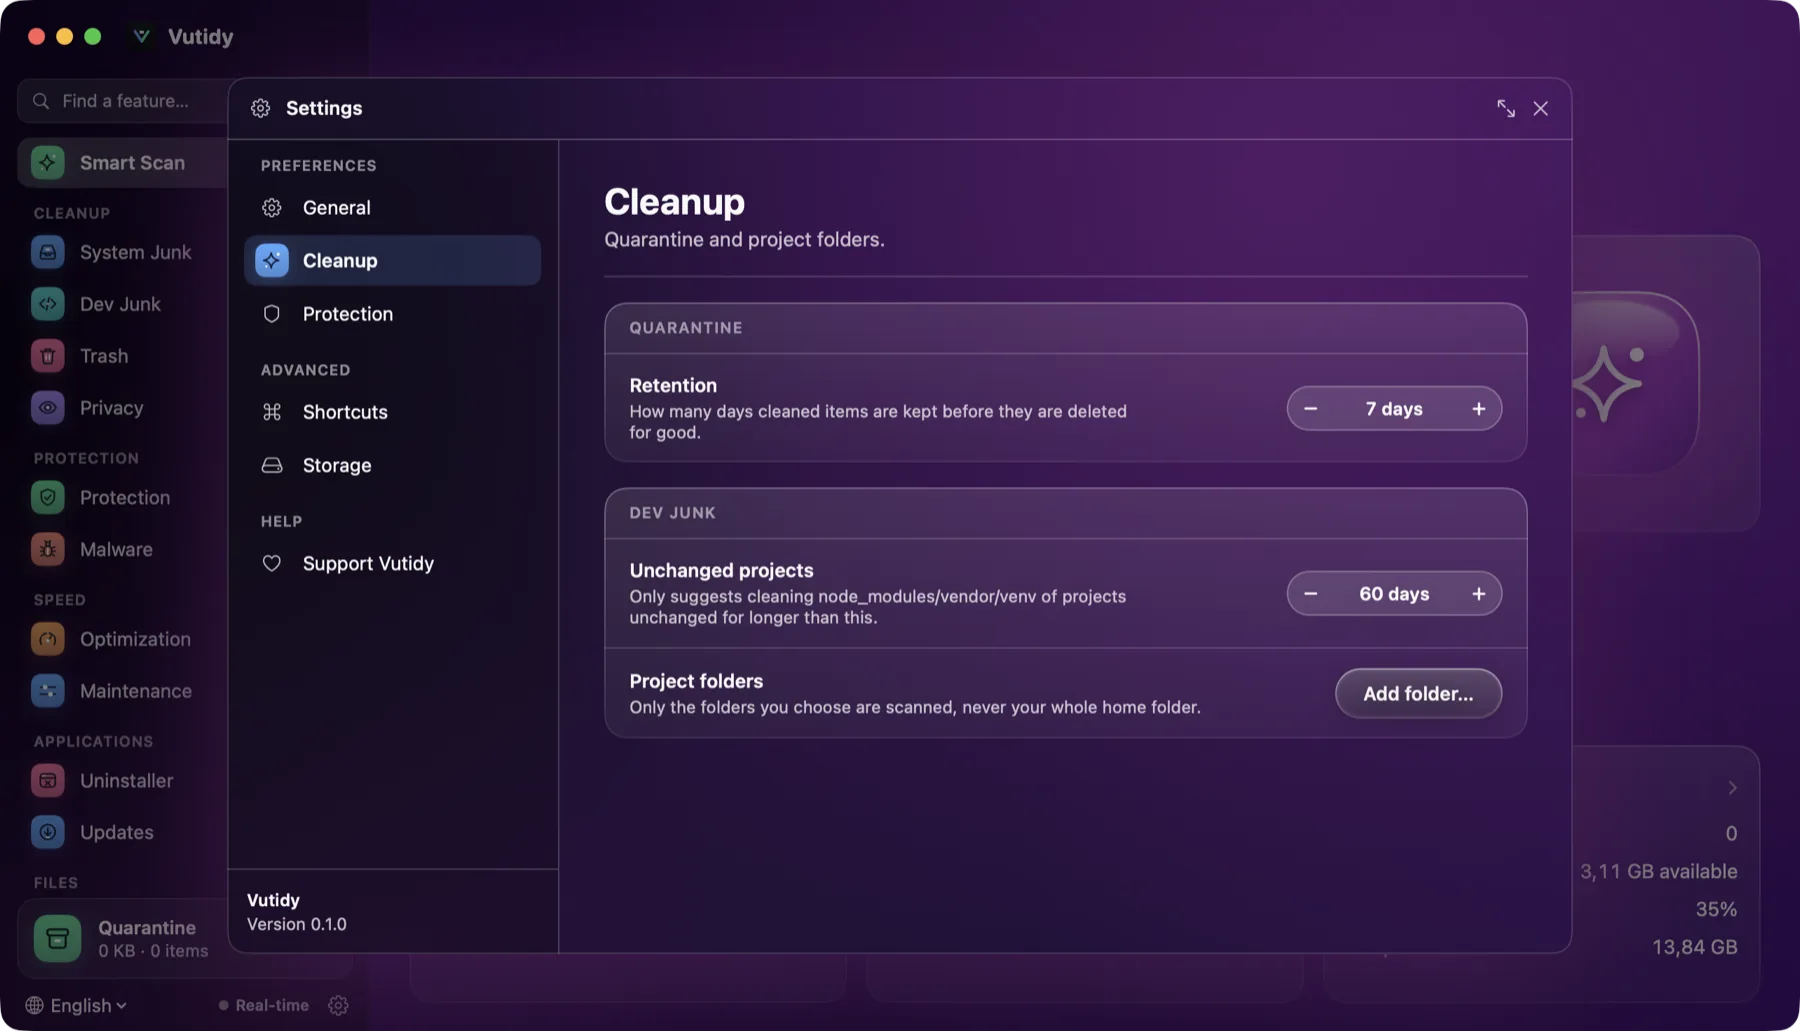
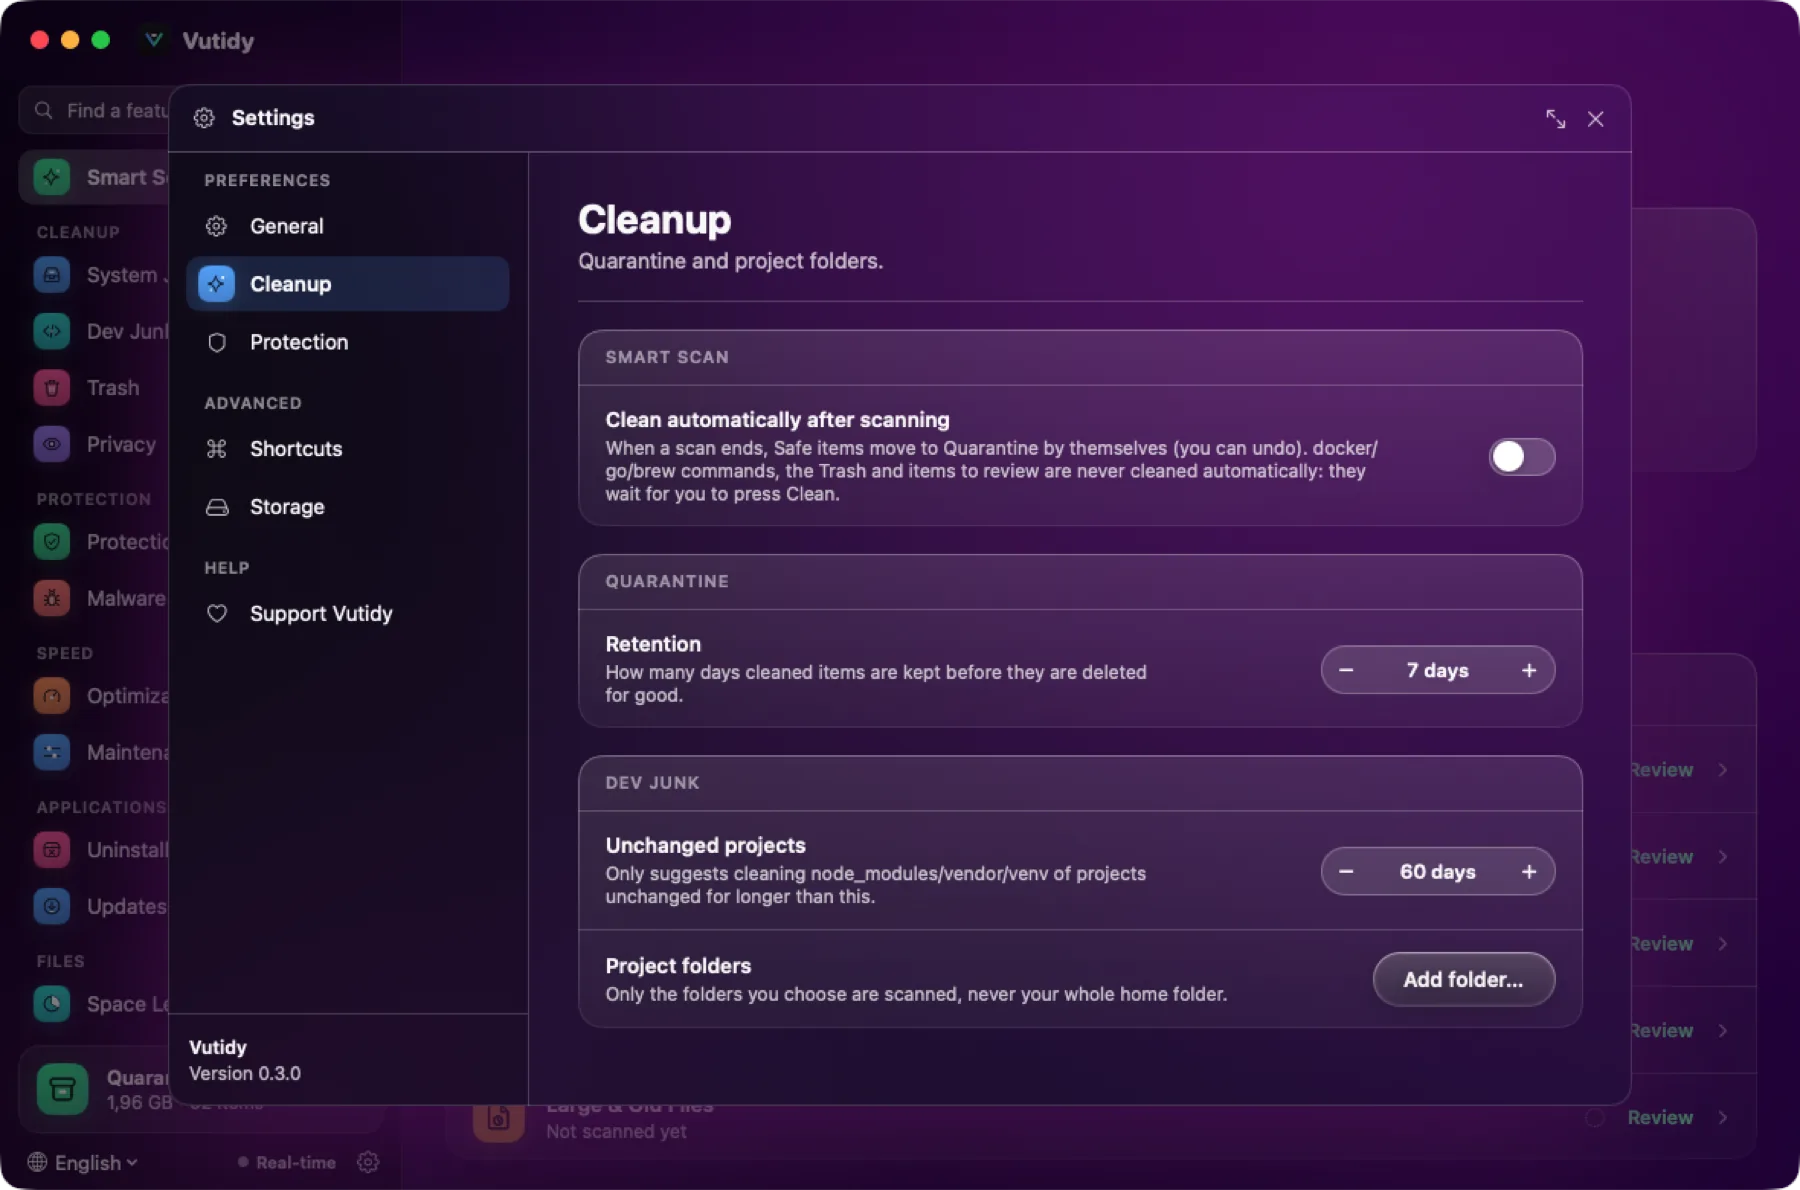
Smart Scan: clean automatically after scanning (off by default)
- Hero: "Scan and clean now" for one run, and a Settings > Cleanup switch for always.
- Only Safe items that can be undone are taken (files to the Quarantine). Items cleaned
  with a tool command (docker/go/brew), the Trash contents and anything to review are
  never cleaned automatically and stay in the list.
- One notification with Undo and the amount still waiting.
- ScanItem.isAutoCleanable (CoreKit) with unit tests; the VUTIDY_SCAN doc-capture hook
  never auto-cleans.
- Docs, screenshots and en/ja/zh strings.

diff --git a/Sources/Vutidy/AppState.swift b/Sources/Vutidy/AppState.swift
@@ -196,6 +196,10 @@ final class AppState: ObservableObject {
     @Published var projectRoots: [String] = UserDefaults.standard.stringArray(forKey: "projectRoots") ?? [] {
         didSet { UserDefaults.standard.set(projectRoots, forKey: "projectRoots") }
     }
+    /// Dọn tự động ngay sau Smart Scan: chỉ mục An toàn mà hoàn tác được (vào Quarantine). Mặc định tắt.
+    @Published var autoCleanAfterScan: Bool = UserDefaults.standard.bool(forKey: "autoCleanAfterScan") {
+        didSet { UserDefaults.standard.set(autoCleanAfterScan, forKey: "autoCleanAfterScan") }
+    }
     @Published var retentionDays: Int = UserDefaults.standard.object(forKey: "retentionDays") as? Int ?? 7 {
         didSet {
             UserDefaults.standard.set(retentionDays, forKey: "retentionDays")
@@ -251,7 +255,7 @@ final class AppState: ObservableObject {
         // Chụp tài liệu: VUTIDY_SCAN=smart|<id,id…> tự chạy quét; VUTIDY_OPEN=popover mở popover thanh menu thành cửa sổ rời.
         if let ids = ProcessInfo.processInfo.environment["VUTIDY_SCAN"] {
             for id in ids.split(separator: ",").map(String.init) {
-                Task { @MainActor in if id == "smart" { await self.runSmartScan() } else { await self.scan(id) } }
+                Task { @MainActor in if id == "smart" { await self.runSmartScan(autoClean: false) } else { await self.scan(id) } }
             }
         }
         if let sp = ProcessInfo.processInfo.environment["VUTIDY_SETTINGS"], let p = SettingsPage(rawValue: sp) { settingsPage = p; settingsOpen = true }
@@ -372,7 +376,7 @@ final class AppState: ObservableObject {
         (results[id] ?? []).filter(\.selected).reduce(0) { $0 + $1.allocatedSize }
     }
 
-    func clean(_ id: String, mode: CleanMode) async {
+    func clean(_ id: String, mode: CleanMode, quiet: Bool = false) async {
         guard !cleaning.contains(id) else { return }
         let items = results[id] ?? []
         let selected = items.filter { $0.selected }
@@ -407,7 +411,7 @@ final class AppState: ObservableObject {
         case .permanent: message = trf("Đã xóa %@", "\(ByteFormat.string(report.reclaimedBytes))")
         }
         if !report.failures.isEmpty { message += trf(" · %@ lỗi", "\(report.failures.count)") }
-        notify(message, report.failures.isEmpty ? .success : .warning, undo: undo)
+        if !quiet { notify(message, report.failures.isEmpty ? .success : .warning, undo: undo) }
         pollSystem()
     }
 
@@ -427,7 +431,8 @@ final class AppState: ObservableObject {
 
     // MARK: - Smart Scan
 
-    func runSmartScan() async {
+    /// `autoClean`: nil = theo cài đặt "Dọn tự động sau Smart Scan"; true/false = ép bật/tắt cho lần quét này.
+    func runSmartScan(autoClean: Bool? = nil) async {
         guard !smartScanning else { return }
         smartScanning = true
         let rules = RuleLoader.loadAll()
@@ -449,6 +454,7 @@ final class AppState: ObservableObject {
         for id in results.keys { results[id]?.sort { $0.allocatedSize > $1.allocatedSize } }
         smartScanning = false; status["smart"] = nil
         pollSystem()
+        if autoClean ?? autoCleanAfterScan { await autoCleanSafe() }
     }
 
     /// Dọn tất cả mục `safe` đã quét bởi Smart Scan.

diff --git a/Sources/Vutidy/SmartScanView.swift b/Sources/Vutidy/SmartScanView.swift
@@ -120,6 +120,10 @@ struct SmartScanView: View {
                 } else if state.smart == nil {
                     Text(tr("Smart Scan gộp Rác hệ thống, Dev Junk, Thùng rác, persistence và gợi ý tối ưu trong một lần quét."))
                         .font(Theme.Font.body).foregroundStyle(Theme.Text.secondary).fixedSize(horizontal: false, vertical: true)
+                    if state.autoCleanAfterScan {
+                        Label(tr("Dọn tự động đang bật: quét xong, mục An toàn hoàn tác được sẽ vào Quarantine."), systemImage: "bolt.fill")
+                            .font(Theme.Font.caption).foregroundStyle(Theme.Review.text).fixedSize(horizontal: false, vertical: true)
+                    }
                 } else if cleanable > 0 {
                     Label(trf("Hoàn tác được trong %@ ngày", "\(state.retentionDays)"), systemImage: "arrow.uturn.backward")
                         .font(Theme.Font.caption).foregroundStyle(Theme.Text.secondary)
@@ -130,7 +134,16 @@ struct SmartScanView: View {
                             Button(trf("Dọn %@", ByteFormat.string(cleanable))) { confirm = true }.buttonStyle(PrimaryButtonStyle())
                             Button(tr("Xem trước (dry-run)")) { Task { await state.cleanSmart(mode: .dryRun) } }.buttonStyle(SecondaryButtonStyle())
                         }
-                        if state.smart == nil { Button(tr("Bắt đầu quét")) { Task { await state.runSmartScan() } }.buttonStyle(PrimaryButtonStyle()) }
+                        if state.smart == nil {
+                            // Bật "Dọn tự động": một nút quét + dọn. Tắt: quét như cũ, và thêm lối tắt "Quét và dọn luôn" cho lần này.
+                            if state.autoCleanAfterScan {
+                                Button(tr("Quét và dọn")) { Task { await state.runSmartScan() } }.buttonStyle(PrimaryButtonStyle())
+                            } else {
+                                Button(tr("Bắt đầu quét")) { Task { await state.runSmartScan() } }.buttonStyle(PrimaryButtonStyle())
+                                Button(tr("Quét và dọn luôn")) { Task { await state.runSmartScan(autoClean: true) } }.buttonStyle(SecondaryButtonStyle())
+                                    .help(tr("Quét xong tự chuyển các mục An toàn, hoàn tác được vào Quarantine. Mục không hoàn tác được vẫn chờ bạn."))
+                            }
+                        }
                         else { Button { Task { await state.runSmartScan() } } label: { Label(tr("Quét lại"), systemImage: "arrow.clockwise") }.buttonStyle(SecondaryButtonStyle()) }
                     }
                 }.padding(.top, 2)

diff --git a/Sources/Vutidy/AutoClean.swift b/Sources/Vutidy/AutoClean.swift
@@ -1,0 +1,41 @@
+import SwiftUI
+import CoreKit
+import SafetyLayer
+import Modules
+
+extension AppState {
+    /// Mục mà dọn tự động được phép đụng tới: An toàn **và** hoàn tác được — tức là file đi vào Quarantine.
+    /// Không tự dọn: mục dùng lệnh của công cụ (`docker prune`, `go clean`, `brew cleanup`: không khôi phục được),
+    /// nội dung Thùng rác (xóa vĩnh viễn) và mọi mục cần xem lại.
+    static func isAutoCleanable(_ i: ScanItem) -> Bool { i.isAutoCleanable }
+
+    /// Dọn ngay các mục đủ điều kiện sau một lần Smart Scan, rồi báo một thông báo gộp (có nút Hoàn tác).
+    /// Phần không hoàn tác được vẫn nằm chờ trong danh sách để người dùng tự bấm Dọn.
+    func autoCleanSafe() async {
+        let ids = ["system-junk", "dev-junk"]
+        var bytes: Int64 = 0, done = 0, failed = 0
+        for id in ids {
+            guard var arr = results[id], arr.contains(where: Self.isAutoCleanable) else { continue }
+            for i in arr.indices { arr[i].selected = Self.isAutoCleanable(arr[i]) }
+            results[id] = arr
+            await clean(id, mode: .quarantine, quiet: true)
+            if let r = lastReport { bytes += r.reclaimedBytes; done += r.doneCount; failed += r.failures.count }
+        }
+        // Cập nhật kết quả Smart Scan theo những gì còn lại (số "có thể lấy lại" co lại, phần chờ bạn quyết định còn nguyên).
+        var r = smart ?? SmartScanResult()
+        r.cleanup = results.values.flatMap { $0 }
+        smart = r
+
+        let waiting = (results["dev-junk"] ?? []).filter { $0.safety == .safe && $0.command != nil }
+            + (results["trash"] ?? []).filter { $0.safety == .safe }
+        let waitingBytes = waiting.reduce(Int64(0)) { $0 + $1.allocatedSize }
+        guard done > 0 || failed > 0 else {
+            if waitingBytes > 0 { notify(trf("Không có gì tự dọn được. %@ chờ bạn bấm Dọn.", ByteFormat.string(waitingBytes)), .warning) }
+            return
+        }
+        var msg = trf("Đã tự dọn %@ vào Quarantine · hoàn tác trong %@ ngày", ByteFormat.string(bytes), "\(retentionDays)")
+        if failed > 0 { msg += trf(" · %@ lỗi", "\(failed)") }
+        if waitingBytes > 0 { msg += trf(" · %@ chờ bạn bấm Dọn", ByteFormat.string(waitingBytes)) }
+        notify(msg, failed == 0 ? .success : .warning, undo: true)
+    }
+}

diff --git a/Sources/CoreKit/Localization/Japanese.swift b/Sources/CoreKit/Localization/Japanese.swift
@@ -284,6 +284,15 @@ enum Japanese {
         "Không có ghi chú.": "リリースノートはありません。",
         "Có Vutidy %@ mới": "Vutidy %@ が利用できます",
         "Kiểm tra cập nhật…": "アップデートを確認…",
+        "Quét và dọn": "スキャンして整理",
+        "Quét và dọn luôn": "スキャンしてすぐ整理",
+        "Quét xong tự chuyển các mục An toàn, hoàn tác được vào Quarantine. Mục không hoàn tác được vẫn chờ bạn.": "スキャン後、元に戻せる「安全」な項目が自動で隔離に移動します。元に戻せない項目はあなたの操作を待ちます。",
+        "Dọn tự động đang bật: quét xong, mục An toàn hoàn tác được sẽ vào Quarantine.": "自動整理がオン: スキャン後、元に戻せる「安全」な項目は隔離に移動します。",
+        "Dọn tự động sau khi quét": "スキャン後に自動で整理",
+        "Quét xong, tự chuyển các mục An toàn vào Quarantine (hoàn tác được). Lệnh docker/go/brew, Thùng rác và mục cần xem lại không bao giờ tự dọn: chúng vẫn chờ bạn bấm Dọn.": "スキャン後、「安全」な項目が自動で隔離に移動します（元に戻せます）。docker/go/brew のコマンド、ゴミ箱、要確認の項目は自動では整理されず、あなたが「整理」を押すのを待ちます。",
+        "Đã tự dọn %@ vào Quarantine · hoàn tác trong %@ ngày": "%@ を自動で隔離に移動しました · %@ 日以内なら元に戻せます",
+        " · %@ chờ bạn bấm Dọn": " · %@ はあなたの操作待ち",
+        "Không có gì tự dọn được. %@ chờ bạn bấm Dọn.": "自動で整理できるものはありません。%@ はあなたの操作待ちです。",
         "Tình trạng Mac của bạn": "Mac の状態",
         "Hiệu năng": "パフォーマンス",
         "Xem": "確認",

diff --git a/Sources/CoreKit/Localization/English.swift b/Sources/CoreKit/Localization/English.swift
@@ -285,6 +285,15 @@ enum English {
         "Không có ghi chú.": "No release notes.",
         "Có Vutidy %@ mới": "Vutidy %@ is available",
         "Kiểm tra cập nhật…": "Check for Updates…",
+        "Quét và dọn": "Scan and clean",
+        "Quét và dọn luôn": "Scan and clean now",
+        "Quét xong tự chuyển các mục An toàn, hoàn tác được vào Quarantine. Mục không hoàn tác được vẫn chờ bạn.": "When the scan ends, Safe items that can be undone move to Quarantine by themselves. Items that cannot be undone wait for you.",
+        "Dọn tự động đang bật: quét xong, mục An toàn hoàn tác được sẽ vào Quarantine.": "Auto-clean is on: after the scan, Safe items that can be undone go to Quarantine.",
+        "Dọn tự động sau khi quét": "Clean automatically after scanning",
+        "Quét xong, tự chuyển các mục An toàn vào Quarantine (hoàn tác được). Lệnh docker/go/brew, Thùng rác và mục cần xem lại không bao giờ tự dọn: chúng vẫn chờ bạn bấm Dọn.": "When a scan ends, Safe items move to Quarantine by themselves (you can undo). docker/go/brew commands, the Trash and items to review are never cleaned automatically: they wait for you to press Clean.",
+        "Đã tự dọn %@ vào Quarantine · hoàn tác trong %@ ngày": "Cleaned %@ automatically into Quarantine · undo within %@ days",
+        " · %@ chờ bạn bấm Dọn": " · %@ waiting for you to press Clean",
+        "Không có gì tự dọn được. %@ chờ bạn bấm Dọn.": "Nothing could be cleaned automatically. %@ waits for you to press Clean.",
         "Tình trạng Mac của bạn": "Your Mac's health",
         "Hiệu năng": "Performance",
         "Xem": "Review",

diff --git a/Sources/CoreKit/Localization/Chinese.swift b/Sources/CoreKit/Localization/Chinese.swift
@@ -285,6 +285,15 @@ enum Chinese {
         "Không có ghi chú.": "没有发行说明。",
         "Có Vutidy %@ mới": "Vutidy %@ 可用",
         "Kiểm tra cập nhật…": "检查更新…",
+        "Quét và dọn": "扫描并清理",
+        "Quét và dọn luôn": "扫描并立即清理",
+        "Quét xong tự chuyển các mục An toàn, hoàn tác được vào Quarantine. Mục không hoàn tác được vẫn chờ bạn.": "扫描结束后，可撤销的“安全”项目会自动移入隔离区；无法撤销的项目仍等待您操作。",
+        "Dọn tự động đang bật: quét xong, mục An toàn hoàn tác được sẽ vào Quarantine.": "自动清理已开启：扫描后，可撤销的“安全”项目会移入隔离区。",
+        "Dọn tự động sau khi quét": "扫描后自动清理",
+        "Quét xong, tự chuyển các mục An toàn vào Quarantine (hoàn tác được). Lệnh docker/go/brew, Thùng rác và mục cần xem lại không bao giờ tự dọn: chúng vẫn chờ bạn bấm Dọn.": "扫描结束后，“安全”项目会自动移入隔离区（可撤销）。docker/go/brew 命令、废纸篓和需检查的项目绝不会自动清理，仍等待您点击清理。",
+        "Đã tự dọn %@ vào Quarantine · hoàn tác trong %@ ngày": "已自动将 %@ 移入隔离区 · %@ 天内可撤销",
+        " · %@ chờ bạn bấm Dọn": " · %@ 等待您点击清理",
+        "Không có gì tự dọn được. %@ chờ bạn bấm Dọn.": "没有可自动清理的内容。%@ 等待您点击清理。",
         "Tình trạng Mac của bạn": "您的 Mac 状态",
         "Hiệu năng": "性能",
         "Xem": "查看",

diff --git a/Sources/Vutidy/SettingsView.swift b/Sources/Vutidy/SettingsView.swift
@@ -241,6 +241,13 @@ struct SettingsOverlay: View {
 
     var cleaning: some View {
         VStack(alignment: .leading, spacing: 18) {
+            SettingsGroup(title: "Smart Scan") {
+                SettingRow(title: tr("Dọn tự động sau khi quét"),
+                           desc: tr("Quét xong, tự chuyển các mục An toàn vào Quarantine (hoàn tác được). Lệnh docker/go/brew, Thùng rác và mục cần xem lại không bao giờ tự dọn: chúng vẫn chờ bạn bấm Dọn."),
+                           showDivider: false) {
+                    SwitchRow(isOn: $state.autoCleanAfterScan, label: tr("Dọn tự động sau khi quét"))
+                }
+            }
             SettingsGroup(title: "Quarantine") {
                 SettingRow(title: tr("Thời gian giữ"), desc: tr("Số ngày giữ mục đã dọn trước khi xóa hẳn."), showDivider: false) {
                     VStepper(value: $state.retentionDays, range: 1...60) { trf("%@ ngày", "\($0)") }

diff --git a/Tests/VutidyTests/AutoCleanTests.swift b/Tests/VutidyTests/AutoCleanTests.swift
@@ -1,0 +1,20 @@
+import Testing
+import Foundation
+@testable import CoreKit
+
+@Suite struct AutoCleanTests {
+    private func item(_ safety: SafetyLevel, command: [String]? = nil) -> ScanItem {
+        ScanItem(url: URL(fileURLWithPath: "/tmp/x"), title: "x", allocatedSize: 1, category: "c", ruleID: "r", safety: safety, command: command)
+    }
+
+    @Test func onlySafeFilesAreAutoCleanable() {
+        #expect(item(.safe).isAutoCleanable)
+        #expect(!item(.review).isAutoCleanable)
+        #expect(!item(.dangerous).isAutoCleanable)
+    }
+
+    @Test func commandItemsAreNeverAutoCleaned() {
+        // docker prune, go clean, brew cleanup cannot be restored from the Quarantine.
+        #expect(!item(.safe, command: ["docker", "image", "prune", "-f"]).isAutoCleanable)
+    }
+}

diff --git a/Sources/CoreKit/Models.swift b/Sources/CoreKit/Models.swift
@@ -79,3 +79,10 @@ public struct CleanReport: Sendable {
         outcomes.filter { if case .skipped = $0.status { return true }; return false }
     }
 }
+
+public extension ScanItem {
+    /// Mục mà dọn **tự động** (Smart Scan) được phép đụng tới: An toàn và hoàn tác được, tức là file đi vào Quarantine.
+    /// Không tính: mục dùng lệnh của công cụ (`docker prune`, `go clean`, `brew cleanup`: không khôi phục được) và mục cần xem lại.
+    /// (Nội dung Thùng rác do trang Trash quản lý và không bao giờ tự dọn.)
+    var isAutoCleanable: Bool { safety == .safe && command == nil }
+}

diff --git a/docs/user-guide/10-settings.md b/docs/user-guide/10-settings.md
@@ -53,6 +53,7 @@ Changes apply **immediately**; there is no Save button.
 | Setting | What it does |
 | --- | --- |
 | **Quarantine retention** | 1 to 60 days (7 by default) before Quarantine items are deleted for good. |
+| **Clean automatically after scanning** | Off by default. When on, Smart Scan moves Safe items that can be undone to the Quarantine as soon as it has scanned. Items cleaned with a tool command, the Trash and items to review are never cleaned automatically. See [Automatic cleaning](02-smart-scan.md#automatic-cleaning). |
 | **Stale project days** | How long a project must be untouched before its `node_modules`, `vendor`, `target`, `.venv` or `Pods` are offered (60 by default). |
 | **Project folders** | The folders Dev Junk searches for old project dependencies. **Add folder…** / **Remove**. Vutidy only walks these, never your whole home folder. |
 
